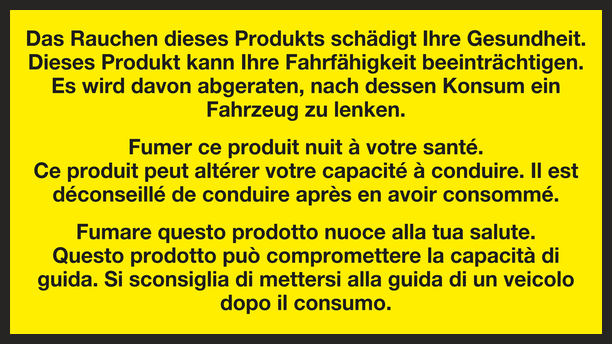
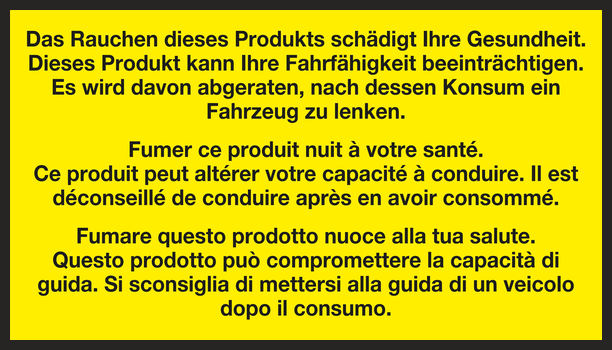
composite v8a: cover the tiny white seam below the warning
Extend WARN_H from 344 to 350 so the warning overshoots the paper's
natural bottom edge by ~6px and the thin white sliver between the
warning frame and the studio floor disappears.

diff --git a/scripts/build_assets.py b/scripts/build_assets.py
@@ -31,7 +31,7 @@ LABELS_OUT = ASSETS / "labels"
 # Position inside the studio paper (paper = x=234..846, y=132..1164, 612×1032).
 # The warning occupies the lower third; KI fills the upper two thirds.
 WARN_X, WARN_Y = 234, 820
-WARN_W, WARN_H = 612, 344
+WARN_W, WARN_H = 612, 350  # extends 6px past the natural paper edge to bury the tiny white seam
 
 # Yellow content bbox inside the source Warning.png (10769x6208, dark frame ~506px)
 _WARN_CONTENT_BBOX = (506, 506, 10262, 5701)

diff --git a/lib/composite.py b/lib/composite.py
@@ -18,7 +18,7 @@ PAPER_W, PAPER_H = 612, 1032
 SLOT_X, SLOT_Y = PAPER_X, PAPER_Y - 2
 SLOT_W, SLOT_H = PAPER_W, 822 - (PAPER_Y - 2)  # ends just before the warning
 WARN_X, WARN_Y = 234, 820
-WARN_W, WARN_H = 612, 344
+WARN_W, WARN_H = 612, 350
 DESIGN_BBOX = (SLOT_X, SLOT_Y, SLOT_X + SLOT_W, SLOT_Y + SLOT_H)
 
 ASSETS_DIR = Path(__file__).parent.parent / "assets"
